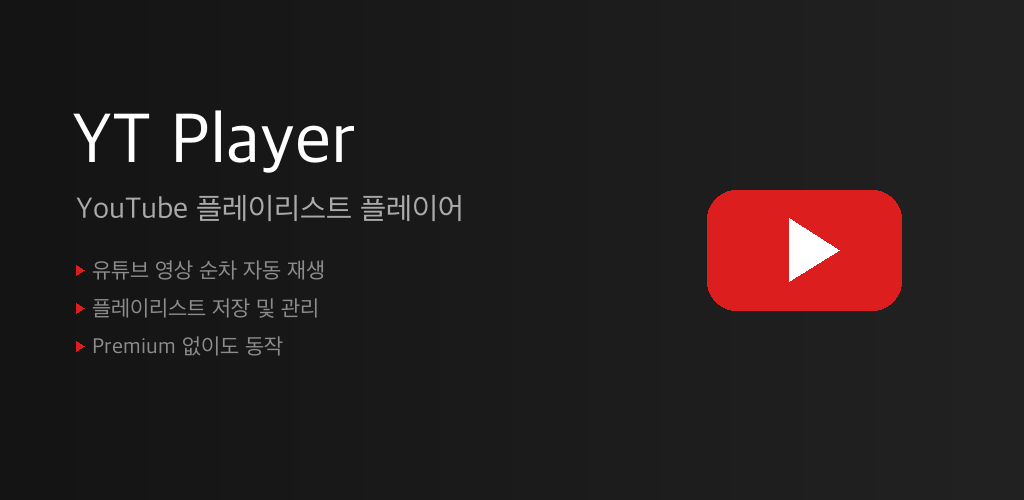
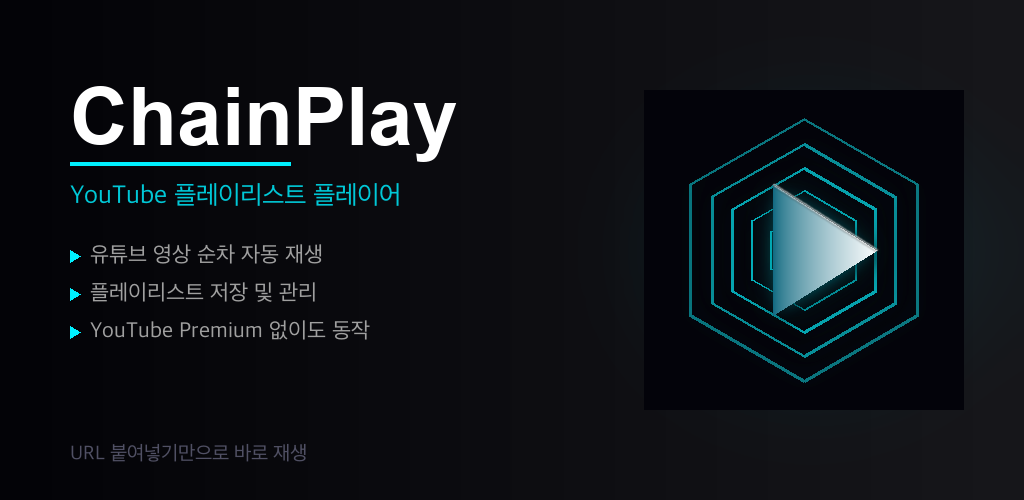
store: ChainPlay 피처 그래픽 및 스크린샷 추가
- feature_graphic.png: YT Player → ChainPlay 브랜딩으로 교체 (D4 아이콘 + 사이안 테마)
- generate_feature_graphic.py: 피처 그래픽 생성 스크립트
- screenshot1.png: 앱 메인 화면 스크린샷
- screenshot2.png: URL 추가 모달 스크린샷

diff --git a/store/generate_feature_graphic.py b/store/generate_feature_graphic.py
@@ -1,0 +1,179 @@
+#!/usr/bin/env python3
+"""ChainPlay 피처 그래픽 1024×500 생성."""
+
+import sys, os, math
+sys.path.insert(0, os.path.dirname(os.path.abspath(__file__)))
+
+from PIL import Image, ImageDraw, ImageFilter, ImageFont
+
+OUT  = os.path.dirname(os.path.abspath(__file__))
+CYAN = (0, 240, 255)
+BG   = (3, 3, 10)
+WHITE = (255, 255, 255)
+W, H = 1024, 500
+
+
+def get_font(size, bold=False, korean=False):
+    if korean:
+        paths = ['/System/Library/Fonts/AppleSDGothicNeo.ttc',
+                 '/Library/Fonts/Arial Unicode.ttf']
+    elif bold:
+        paths = ['/System/Library/Fonts/Supplemental/Arial Bold.ttf',
+                 '/System/Library/Fonts/HelveticaNeue.ttc']
+    else:
+        paths = ['/System/Library/Fonts/Supplemental/Arial.ttf',
+                 '/System/Library/Fonts/HelveticaNeue.ttc']
+    for p in paths:
+        try:
+            return ImageFont.truetype(p, size)
+        except (OSError, IOError):
+            continue
+    return ImageFont.load_default()
+
+
+def hex_pts(cx, cy, r, rot=-90):
+    return [(cx + r*math.cos(math.radians(60*i+rot)),
+             cy + r*math.sin(math.radians(60*i+rot))) for i in range(6)]
+
+def tri_pts(cx, cy, h):
+    ofs = h * 0.07
+    return [(cx - h*.36+ofs, cy - h*.62),
+            (cx - h*.36+ofs, cy + h*.62),
+            (cx + h*.62+ofs, cy)]
+
+def outline(d, pts, color, w=4):
+    for i in range(len(pts)):
+        d.line([pts[i], pts[(i+1)%len(pts)]], fill=color, width=w)
+
+def glow(img, size, fn, blur=18, passes=2):
+    for _ in range(passes):
+        lay = Image.new('RGBA', size, (0,0,0,0))
+        fn(ImageDraw.Draw(lay))
+        img.alpha_composite(lay.filter(ImageFilter.GaussianBlur(blur)))
+
+
+def draw_d4_icon(icon_size):
+    """D4 그라데이션 아이콘을 icon_size 크기로 생성해 RGBA 반환."""
+    S = icon_size
+    CX = CY = S // 2
+    scale = S / 512
+
+    img = Image.new('RGBA', (S, S), (*BG, 255))
+
+    # 헥사곤 포탈 링
+    for r, w, a in zip([210,170,132,96,62], [6,5,5,4,4], [110,140,170,200,240]):
+        rs, ws = int(r*scale), max(1, int(w*scale))
+        c = (*CYAN, a)
+        def _d(d, _r=rs, _w=ws, _c=c):
+            outline(d, hex_pts(CX, CY, _r), _c, _w)
+        glow(img, (S,S), _d, blur=int(20*scale), passes=2)
+        _d(ImageDraw.Draw(img))
+
+    TRI = int(170 * scale)
+    tp = tri_pts(CX, CY, TRI)
+
+    # 그림자
+    sh_tp = tri_pts(CX+int(10*scale), CY+int(9*scale), TRI)
+    sl = Image.new('RGBA', (S,S), (0,0,0,0))
+    ImageDraw.Draw(sl).polygon(sh_tp, fill=(0,20,30,180))
+    img.alpha_composite(sl.filter(ImageFilter.GaussianBlur(int(14*scale))))
+
+    # 시안 외곽 글로우
+    glow(img, (S,S), lambda d: d.polygon(tp, fill=(*CYAN, 90)), blur=int(32*scale), passes=2)
+    glow(img, (S,S), lambda d: d.polygon(tp, fill=(*CYAN, 60)), blur=int(14*scale), passes=1)
+
+    # 좌→우 그라데이션 삼각형
+    left_x  = int(min(p[0] for p in tp)) - 2
+    right_x = int(max(p[0] for p in tp)) + 2
+    grad = Image.new('RGBA', (S,S), (0,0,0,0))
+    gd = ImageDraw.Draw(grad)
+    for x in range(left_x, right_x+1):
+        t = (x-left_x) / max(right_x-left_x, 1)
+        t = t**0.65
+        r2 = int(0*(1-t)+255*t); g2 = int(95*(1-t)+255*t); b2 = int(120*(1-t)+255*t)
+        gd.line([(x,0),(x,S)], fill=(r2,g2,b2,255))
+    mask = Image.new('L', (S,S), 0)
+    ImageDraw.Draw(mask).polygon(tp, fill=255)
+    img.paste(grad.convert('RGBA'), mask=mask)
+
+    # 윗면 하이라이트
+    top_edge = [tp[0], tp[2]]
+    hl = Image.new('RGBA', (S,S), (0,0,0,0))
+    ImageDraw.Draw(hl).line(top_edge, fill=(255,255,255,180), width=max(2,int(5*scale)))
+    img.alpha_composite(hl.filter(ImageFilter.GaussianBlur(int(3*scale))))
+    ImageDraw.Draw(img).line(top_edge, fill=(255,255,255,110), width=max(1,int(2*scale)))
+
+    return img
+
+
+def make_feature_graphic():
+    img = Image.new('RGB', (W, H), BG)
+    draw = ImageDraw.Draw(img)
+
+    # 배경 그라데이션 — 왼쪽 짙고 오른쪽 살짝 밝게
+    for x in range(W):
+        t = x / W
+        v = int(3 + 20 * t)
+        draw.line([(x, 0), (x, H)], fill=(v, v, v+4))
+
+    # 오른쪽 사이안 안개 (아이콘 뒤 배경 글로우)
+    fog = Image.new('RGBA', (W, H), (0,0,0,0))
+    ImageDraw.Draw(fog).ellipse([620, 80, 1010, 420], fill=(*CYAN, 18))
+    img_rgba = img.convert('RGBA')
+    img_rgba.alpha_composite(fog.filter(ImageFilter.GaussianBlur(60)))
+    img = img_rgba.convert('RGB')
+    draw = ImageDraw.Draw(img)
+
+    # ── 텍스트 영역 (왼쪽) ───────────────────────────────────────────────
+    font_title    = get_font(80, bold=True)
+    font_sub      = get_font(26, korean=True)
+    font_bullet   = get_font(22, korean=True)
+    font_tagline  = get_font(20, korean=True)
+
+    # 앱 이름
+    draw.text((70, 72), "ChainPlay", fill=WHITE, font=font_title)
+
+    # 사이안 언더라인
+    draw.rectangle([70, 162, 290, 165], fill=(*CYAN, 220))
+
+    # 서브타이틀
+    draw.text((70, 180), "YouTube 플레이리스트 플레이어", fill=(0, 200, 215), font=font_sub)
+
+    # 불릿
+    bullets = [
+        "유튜브 영상 순차 자동 재생",
+        "플레이리스트 저장 및 관리",
+        "YouTube Premium 없이도 동작",
+    ]
+    y = 242
+    for b in bullets:
+        # 삼각형 불릿
+        draw.polygon([(70, y+8), (70, y+20), (80, y+14)], fill=(*CYAN, 200))
+        draw.text((90, y), b, fill=(160, 160, 160), font=font_bullet)
+        y += 38
+
+    # 태그라인
+    draw.text((70, H-58), "URL 붙여넣기만으로 바로 재생", fill=(80, 80, 100), font=font_tagline)
+
+    # ── D4 아이콘 (오른쪽) ───────────────────────────────────────────────
+    icon_size = 320
+    icon = draw_d4_icon(icon_size)
+
+    # 아이콘 하단 반사 (약한 수직 미러)
+    img_rgba2 = img.convert('RGBA')
+    icon_pos_x = W - icon_size - 60
+    icon_pos_y = (H - icon_size) // 2
+
+    # 글로우 레이어 (아이콘 배경)
+    icon_bg = Image.new('RGBA', (W, H), (0,0,0,0))
+    icon_bg.paste(icon, (icon_pos_x, icon_pos_y))
+    img_rgba2.alpha_composite(icon_bg)
+
+    img = img_rgba2.convert('RGB')
+    return img
+
+
+if __name__ == '__main__':
+    out_path = os.path.join(OUT, 'feature_graphic.png')
+    make_feature_graphic().save(out_path)
+    print(f'✓ {out_path}  ({W}×{H})')
